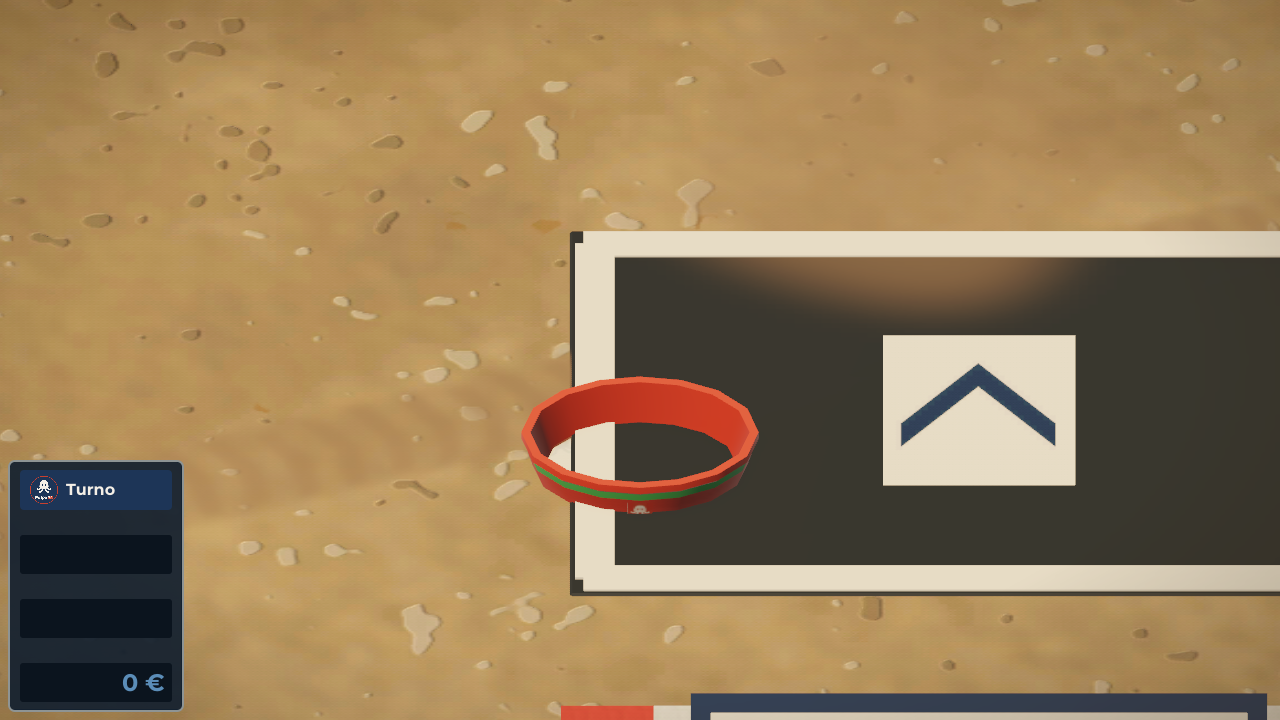
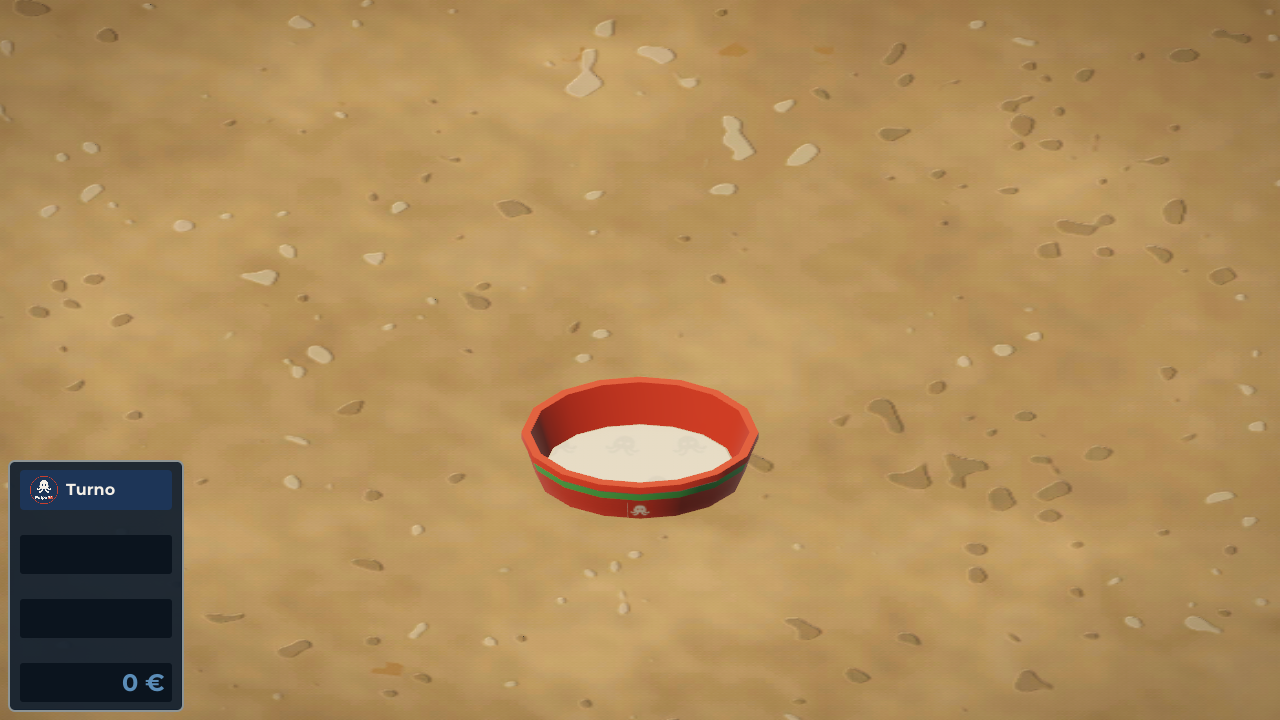
art(PUL-123): trazos >= 11 px, test de apertura, mipmaps y capturas regeneradas

diff --git a/docs/backlog/PUL-123-iconos-de-verbos-motivos-y-marcas-alino-picante-pr.md b/docs/backlog/PUL-123-iconos-de-verbos-motivos-y-marcas-alino-picante-pr.md
@@ -32,7 +32,7 @@ SVG propios, monocromos, 128×128, trazo ≥ 8 % del lado, según «Iconografía
 - Nombres exactos del contrato (manda sobre el diseño; equivalencias en PUL-120).
 
 ## Acceptance
-- [x] AC1 (diseño AC4) Verbos a 64 px y motivos a 32 px, en gris y binarizados al 50 %: IoU de cualquier par <= 0,6; dulce y picante incluidos. IoU máximo medido: verbos 0,519; motivos 0,486 -> `test_icons_silhouettes.gd`
+- [x] AC1 (diseño AC4) Verbos a 64 px y motivos a 32 px, en gris y binarizados al 50 %: IoU de cualquier par <= 0,6; dulce y picante incluidos. IoU máximo medido: verbos 0,521; motivos 0,486 -> `test_icons_silhouettes.gd`
 - [x] AC2 `action_icons.tres` tiene exactamente las claves de verbos y motivos del contrato, todas con textura que importa, y los valores del diseño -> `test_action_icon_set.gd`
 - [x] AC3 (diseño AC19, parte de arte) `box_shelf.glb` y `box.glb` sin S, M ni L; capturas y hoja de contacto en `docs/evidence/PUL-123/`
 
@@ -47,7 +47,9 @@ SVG propios, monocromos, 128×128, trazo ≥ 8 % del lado, según «Iconografía
 6. Evidencia y verify.
 
 ## Evidence
-- `docs/evidence/PUL-123/contact_sheet_64px_gray.png`: verbos y marcas a 64 px, motivos a 32 px, en gris (`contact_sheet.gd`).
+- `docs/evidence/PUL-123/contact_sheet_64px_gray.png`: verbos y marcas (incluida `plate`) a 64 px, motivos a 32 px, en gris (`contact_sheet.gd`).
 - `docs/evidence/PUL-123/rack_in_game.png`, `box_in_game.png`: rack y caja en `level_01` (`capture.gd`), sin letras.
 - Presupuestos: `box.glb` 1034 tris; `box_shelf.glb` 5912 tris (< 6000).
 - Pendiente fuera de owns: el icono del aliño picante en `data/seasonings/hot_dressing.tres`/ticket (ver informe), `docs/assets/licenses.md` (fila de PUL-095 cita las letras).
+- Revisión (CHANGES): trazos subidos a >= 11 px (`already_applied`, `busy`, `not_cooked`, `cook`); el test comprueba trazo con una apertura circular de radio 5 que conserva >= 85 % de la máscara, marcas incluidas; `.svg.import` con `mipmaps/generate=true`; caja de `box_in_game.png` recolocada en suelo despejado.
+- Las listas literales de verbos y motivos de `test_action_icon_set.gd` y `test_icons_silhouettes.gd` se sustituyen por `ActionVerb.ALL`/`ActionReason.ALL` en PUL-131.
